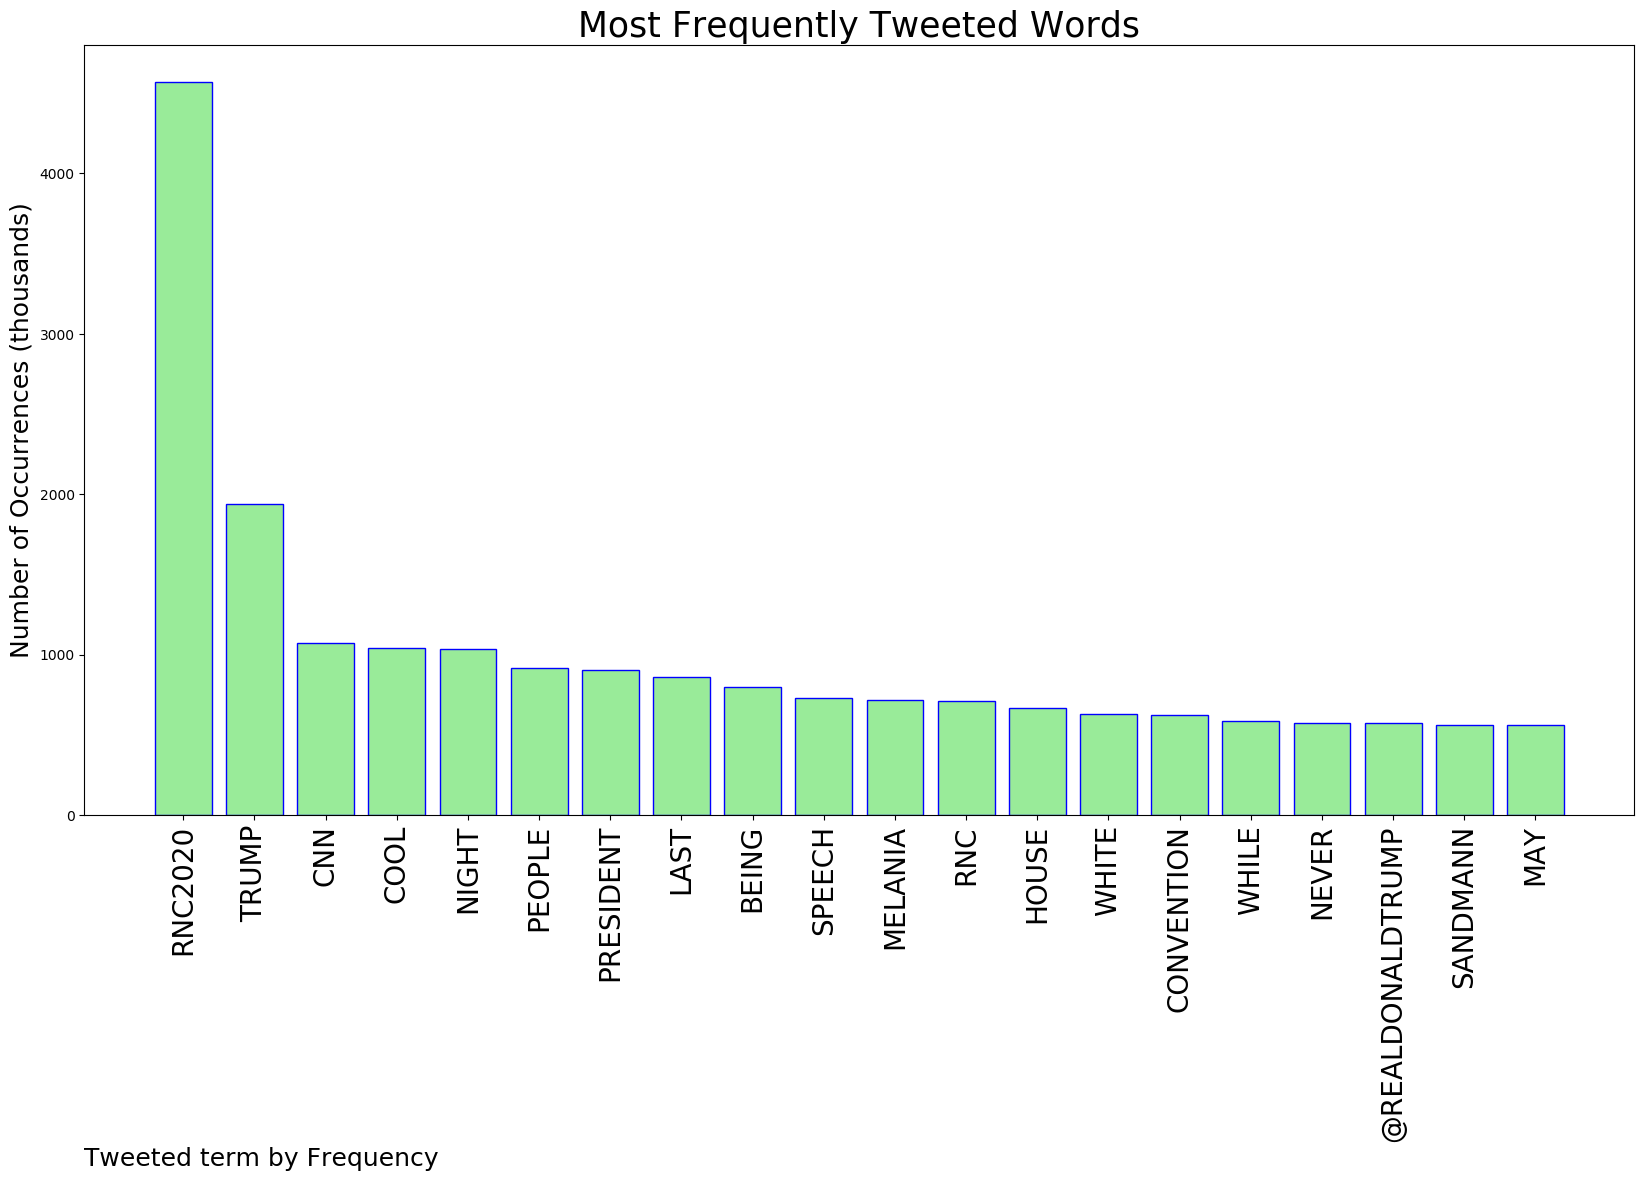
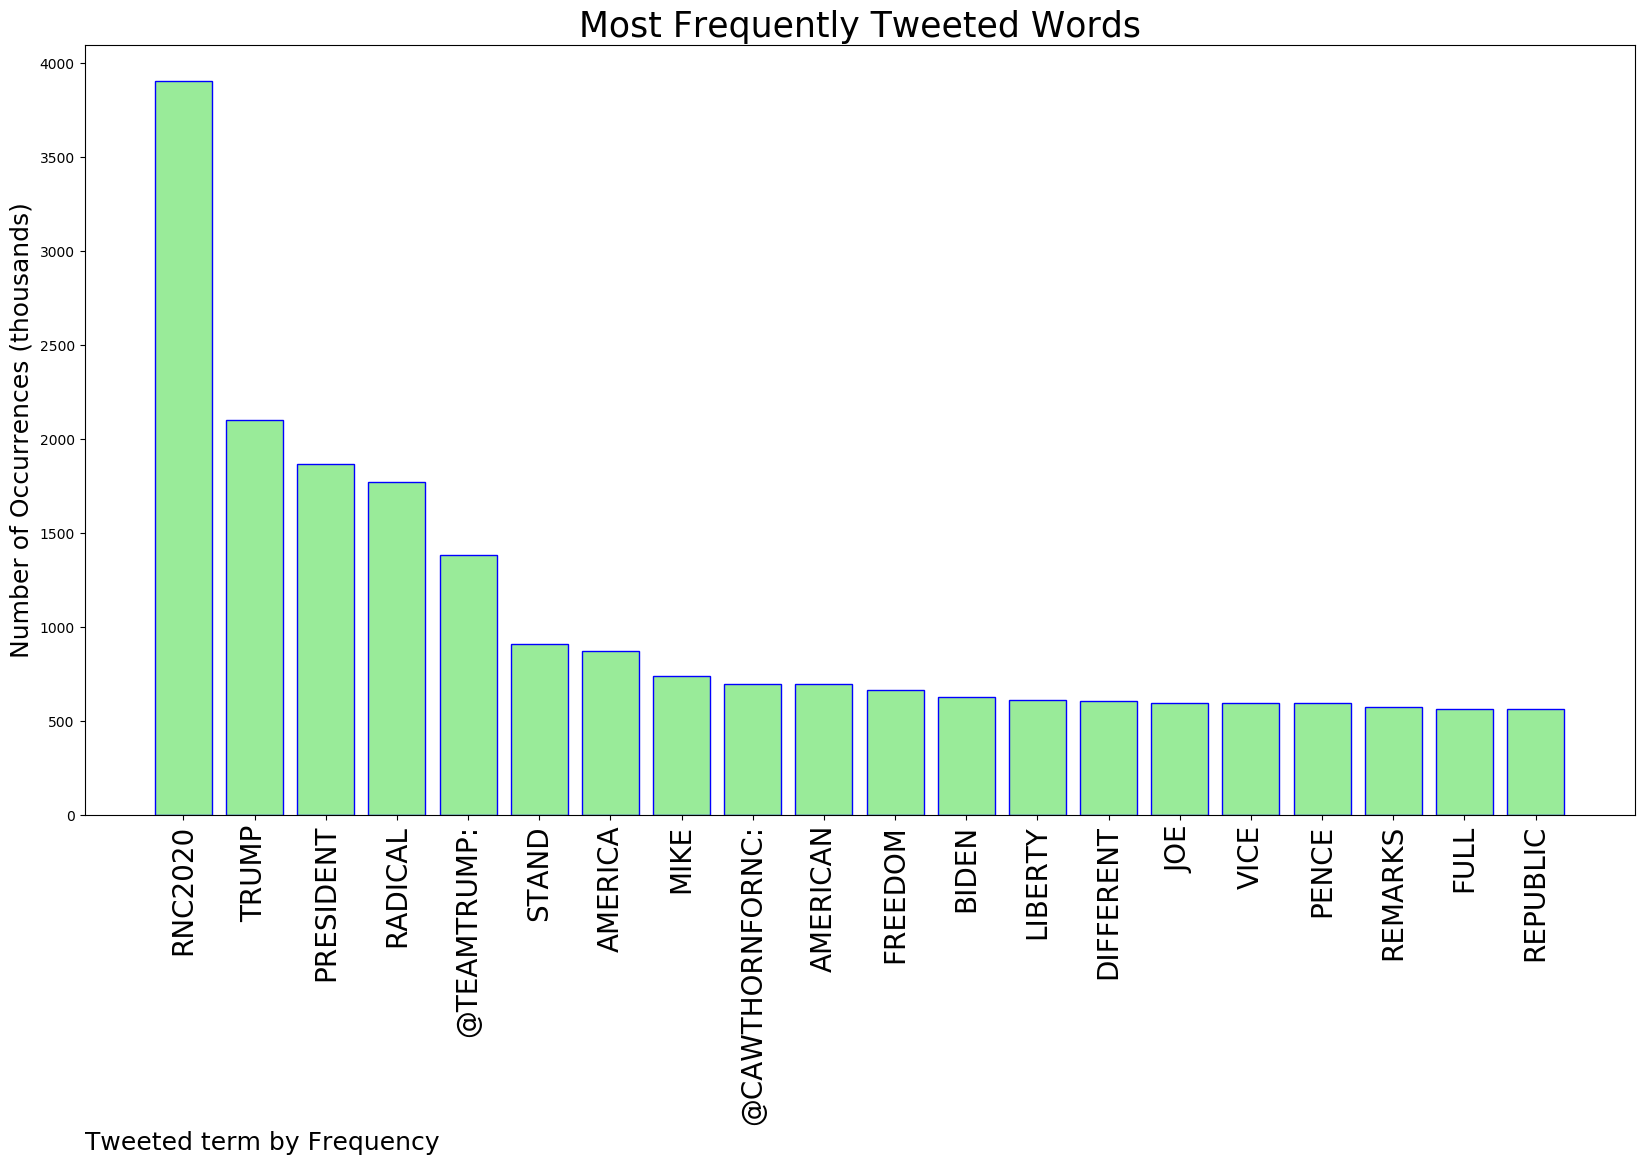
Updating with latest report

diff --git a/README.md b/README.md
@@ -15,22 +15,22 @@
 
 |                **Sample-Tweets**        |
 | :-------------: |
-| RT @JusticeforJans: Another night of the #RNC2020 &amp; essential workers still don't have the PPE, Hazard Pay &amp; Job Protections they need to w… |
-| RT @GOP: 🐘MEET THE CANDIDATE: Marianette Miller-Meeks🐘 —Doctor, Veteran, and Iowa State Senator —@millermeeks is the Republican Nominee… |
-| RT @EricTrump: Can’t believe I’m watching the convention on @CNN - give credit where credit is due. They are playing the #RNC2020 in its en… |
+| RT @PolitiFact: Trump and his administration have not protected patients with preexisting conditions. His policy trajectory does exactly th… |
+| People murdered by #antifascists = 0 People murdered by #AltRight #DomesticTerrorists = 331. #BlackLivesMetter… https://t.co/26mdKHPnjP |
+| RT @DailyCaller: MSNBC interrupted Governor @KristiNoem, saying she was “very wrong” to say leftist-run cities are being overrun by crime a… |
 
-The most popular user is: **sc229**
-<div class="alert alert-block alert-danger"> RT @American_Bridge: The people who know Donald Trump best are sounding the alarm: our country cannot survive four more years of a Trump pr…</div>
+The most popular user is: **PaulObrienUSA**
+<div class="alert alert-block alert-danger"> RT @hammerandnigel: You may be cool, but you’ll never be “Nick Sandmann on CNN bashing CNN while being paid by CNN” cool. #RNC #RNC2020 htt…</div>
 
 ## RELATED METRICS<br>
 | Metric | Value |
 | ------------- | ------------- |
-| #1 Most tweeted to  | **realDonaldTrump** |
-| #2 Most tweeted to  | **GOP** |
-| #3 Most tweeted to  | **TeamTrump** |
-| NewProfiles (less than 10 days) | 0.86%  |
-| Tweeters with < 10 followers  | 5.24%|
-| Tweeters with > 1000000 followers  | 0.24%  |
+| #1 Most tweeted to  | **TeamTrump** |
+| #2 Most tweeted to  | **CawthornforNC** |
+| #3 Most tweeted to  | **GOPconvention** |
+| NewProfiles (less than 10 days) | 1.04%  |
+| Tweeters with < 10 followers  | 4.42%|
+| Tweeters with > 1000000 followers  | 0.15%  |
 
 
 
@@ -41,26 +41,26 @@ The most popular user is: **sc229**
 | ------------- | ------------- |
 | first  | **RNC2020**  |
 | second  | **TRUMP**  |
-| third  | **CNN** |
-| fourth  | **COOL**  |
-| fifth  | **NIGHT**  |
+| third  | **PRESIDENT** |
+| fourth  | **RADICAL**  |
+| fifth  | **@TEAMTRUMP:**  |
 
 
 ## Twitter Bio Analysis![image](BIO.png)
 ### SENTIMENT ANALYSIS
 ![image](sentiment.png)
-VIEWS WERE : **SUBJECTIVE**  (26.67%) & **NEGATIVELY-SUBJECTIVE** (26.67%) **OBJECTIVE** (46.67%)
+VIEWS WERE : **SUBJECTIVE**  (26.67%) & **NEGATIVELY-SUBJECTIVE** (20.0%) **OBJECTIVE** (53.33%)
 
 ### TWEET SAMPLE 
 | Random value picked from array |
 | ------------- |
-|RT @CactusFlower_1: @HillaryClinton Oh stop lying and blaming @POTUS for what Obama did..🙄Many on the left are waking up &amp; you know it! #Fo… |
+|I'm pretty sure the #socialist #MSM did'nt allow most of the speeches at the #RNC2020 to be aired for all Americans… https://t.co/x2Ia339M7H |
 
 ### MOST RETWEETED 
 
-| The most retweeted user is: **sc229**  |
+| The most retweeted user is: **PaulObrienUSA**  |
 | ------------- |
-| RT @American_Bridge: The people who know Donald Trump best are sounding the alarm: our country cannot survive four more years of a Trump pr… |
+| RT @hammerandnigel: You may be cool, but you’ll never be “Nick Sandmann on CNN bashing CNN while being paid by CNN” cool. #RNC #RNC2020 htt… |
 
 ### CONCLUSION & EXTERNAL ANALYSIS
 
